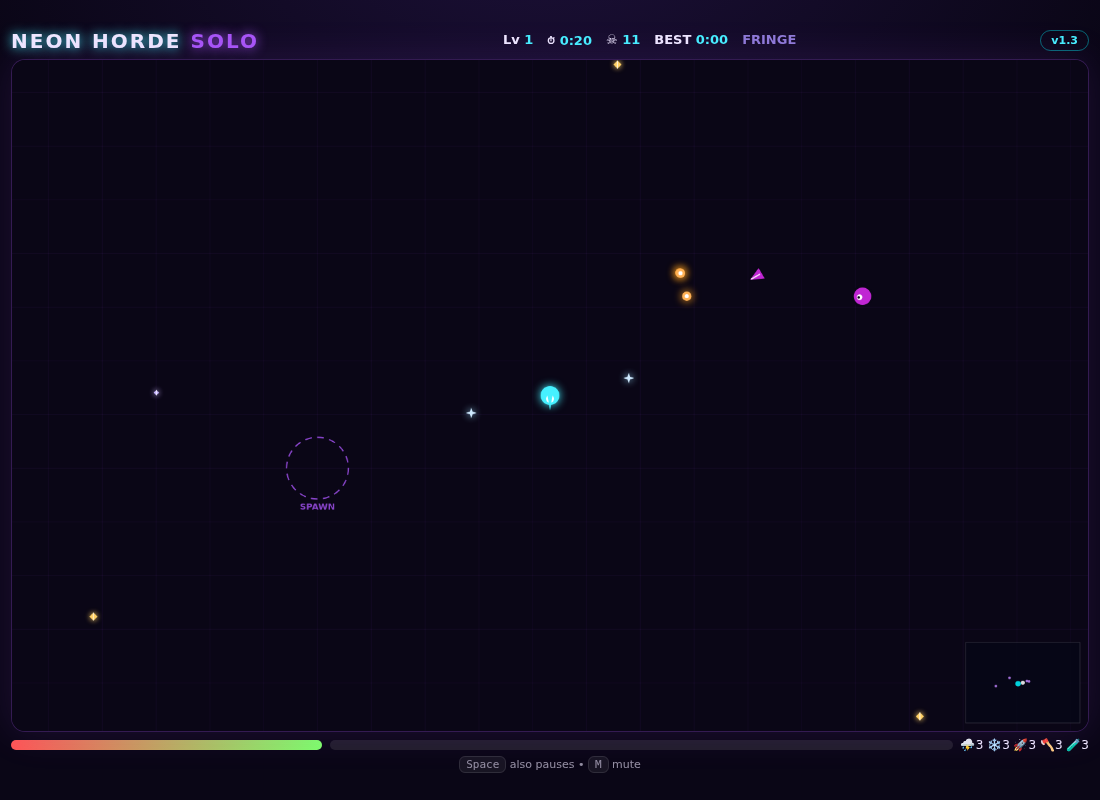
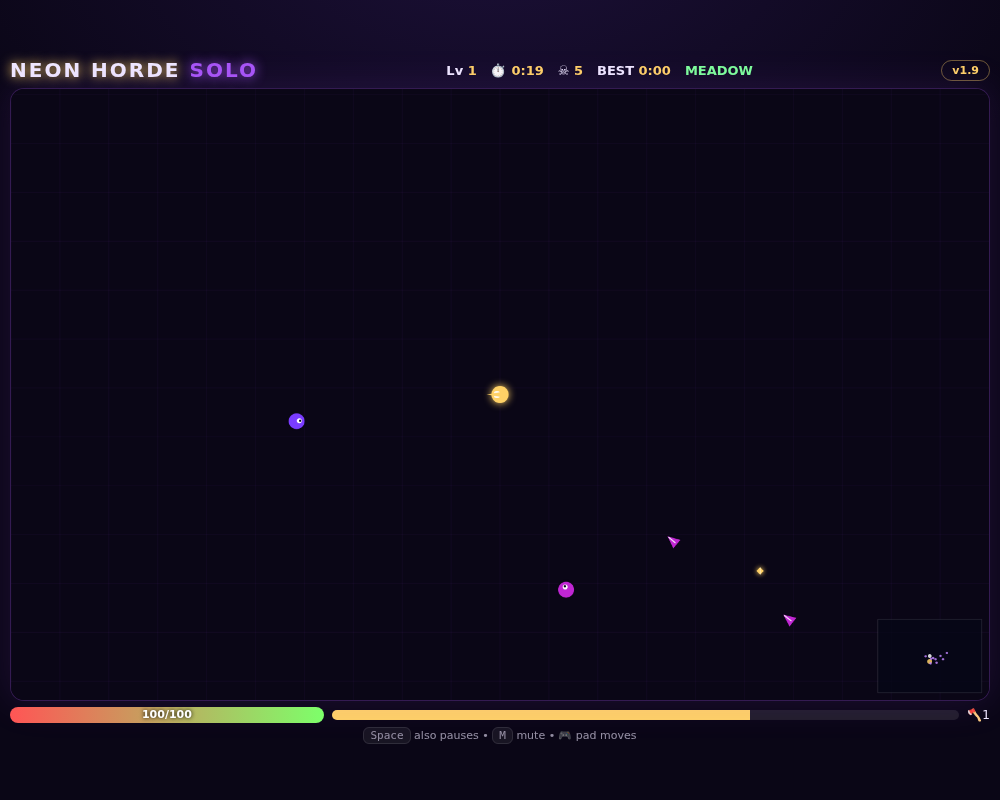
Horde lantern theme: gold hunters/HUD, fresh thumbs, solo PWA pack

diff --git a/local-browser-games/1player/neon-horde-solo/index.html b/local-browser-games/1player/neon-horde-solo/index.html
@@ -3,9 +3,12 @@
 <head>
 <meta charset="utf-8">
 <meta name="viewport" content="width=device-width,initial-scale=1,maximum-scale=1,user-scalable=no">
+<meta name="theme-color" content="#0a0616">
+<link rel="manifest" href="manifest.webmanifest">
+<link rel="icon" href="icon.svg" type="image/svg+xml">
 <title>Neon Horde Solo — Static Survivors</title>
 <style>
-:root{--c1:#46f0ff;--c2:#a855f7;--bg:#0a0616}
+:root{--c1:#ffd166;--c2:#a855f7;--bg:#0a0616}
 *{box-sizing:border-box;-webkit-tap-highlight-color:transparent;user-select:none}
 body{margin:0;background:radial-gradient(1000px 600px at 50% -10%,#1c1038 0%,var(--bg) 60%) fixed,var(--bg);color:#efe8ff;font-family:ui-sans-serif,system-ui,Segoe UI,Roboto,Arial;overflow:hidden}
 #wrap{height:100dvh;display:flex;flex-direction:column;align-items:center;justify-content:center;gap:6px;padding:8px}
@@ -14,7 +17,7 @@ body{margin:0;background:radial-gradient(1000px 600px at 50% -10%,#1c1038 0%,var
 .logo span{color:var(--c2);text-shadow:0 0 12px var(--c2)}
 #stats{font-weight:800;font-size:13px;display:flex;gap:14px}
 #stats b{color:var(--c1)}
-#verBadge{font-size:11px;font-weight:800;color:var(--c1);border:1px solid #00f6ff66;border-radius:99px;padding:3px 10px}
+#verBadge{font-size:11px;font-weight:800;color:var(--c1);border:1px solid #ffd16666;border-radius:99px;padding:3px 10px}
 #bossbar{width:min(1100px,98vw);height:14px;border-radius:99px;background:#ffffff14;border:1px solid #ffffff2a;overflow:hidden;display:none}
 #bossfill{height:100%;width:100%;background:linear-gradient(90deg,#ff2fd6,#ff5555)}
 #stage{position:relative;width:min(1100px,98vw);aspect-ratio:1600/1000;border-radius:14px;overflow:hidden;border:1px solid #a855f744;background:#0a0616;box-shadow:0 0 40px #a855f722}
@@ -23,12 +26,12 @@ canvas{width:100%;height:100%;display:block;touch-action:none}
 .card{width:min(440px,93%);background:#0b1026;border:1px solid #ffffff22;border-radius:16px;padding:20px;text-align:center}
 .card h1{margin:.2em 0;font-size:22px}
 .card p{font-size:13px;opacity:.85;line-height:1.6}
-button{cursor:pointer;border:0;border-radius:10px;padding:12px 16px;font-weight:800;font-size:15px;color:#04121a;background:linear-gradient(90deg,var(--c1),#7dffcb);box-shadow:0 0 18px #00f6ff88;width:100%;margin-top:8px}
+button{cursor:pointer;border:0;border-radius:10px;padding:12px 16px;font-weight:800;font-size:15px;color:#04121a;background:linear-gradient(90deg,var(--c1),#ff9f1c);box-shadow:0 0 18px #ffd16688;width:100%;margin-top:8px}
 button.ghost{background:#ffffff14;color:#fff;box-shadow:none;border:1px solid #ffffff2a}
 #draft{position:absolute;inset:0;display:none;align-items:center;justify-content:center;background:rgba(5,6,15,.6);padding:10px}
 #draftCards{display:flex;gap:10px;width:min(640px,94%)}
 @media (max-width:640px){#draftCards{flex-direction:column;max-height:86%;overflow:auto}.dcard{padding:12px 10px}.dcard .ic{font-size:26px}}
-.dcard{flex:1;background:#0d1430;border:2px solid #00f6ff66;border-radius:14px;padding:16px 10px;text-align:center;cursor:pointer}
+.dcard{flex:1;background:#0d1430;border:2px solid #ffd16666;border-radius:14px;padding:16px 10px;text-align:center;cursor:pointer}
 .dcard:hover{border-color:#fff;background:#14204a}
 .dcard .ic{font-size:34px}
 .dcard h3{margin:8px 0 4px;font-size:15px}
@@ -41,7 +44,7 @@ button.ghost{background:#ffffff14;color:#fff;box-shadow:none;border:1px solid #f
 #bossbar{width:min(1100px,98vw);height:14px;border-radius:99px;background:#ffffff14;border:1px solid #ffffff2a;overflow:hidden;display:none;position:relative}
 #bossnum{position:absolute;left:0;right:0;top:0;font-size:10px;font-weight:800;text-align:center;color:#fff;text-shadow:0 0 4px #000;pointer-events:none;line-height:14px}
 #xpbar{flex:2;height:10px;border-radius:99px;background:#ffffff18;overflow:hidden}
-#xpfill{height:100%;background:#00f6ff}
+#xpfill{height:100%;background:#ffd166}
 #wrow{font-size:12px;white-space:nowrap}
 #toast{position:absolute;top:10px;left:50%;transform:translateX(-50%);background:#000000aa;border:1px solid #ffffff33;padding:6px 12px;border-radius:99px;font-size:13px;display:none;z-index:5}
 #hint{font-size:11px;opacity:.6;text-align:center}
@@ -50,7 +53,7 @@ kbd{background:#ffffff1a;border:1px solid #ffffff2e;border-radius:6px;padding:1p
 </head>
 <body>
 <div id="wrap">
-  <div id="topbar"><div class="logo">NEON HORDE <span>SOLO</span></div><div id="stats"><div>Lv <b id="lvl">1</b></div><div>⏱ <b id="clock">0:00</b></div><div>☠ <b id="kills">0</b></div><div>BEST <b id="best">0:00</b></div><div id="biome">FRINGE</div></div><div id="verBadge">v1.8</div></div>
+  <div id="topbar"><div class="logo">NEON HORDE <span>SOLO</span></div><div id="stats"><div>Lv <b id="lvl">1</b></div><div>⏱ <b id="clock">0:00</b></div><div>☠ <b id="kills">0</b></div><div>BEST <b id="best">0:00</b></div><div id="biome">MEADOW</div></div><div id="verBadge">v1.9</div></div>
   <div id="bossbar"><div id="bossfill"></div><div id="bossnum"></div></div>
   <div id="stage">
     <canvas id="cv" width="1600" height="1000"></canvas>
@@ -66,7 +69,7 @@ kbd{background:#ffffff1a;border:1px solid #ffffff2e;border-radius:6px;padding:1p
     </div></div>
   </div>
   <div id="hud"><div id="hpbar"><div id="hpfill" style="width:100%"></div><div id="hpnum"></div></div><div id="xpbar"><div id="xpfill" style="width:0%"></div></div><div id="wrow"></div></div>
-  <div id="hint"><kbd>Space</kbd> also pauses • <kbd>M</kbd> mute</div>
+  <div id="hint"><kbd>Space</kbd> also pauses • <kbd>M</kbd> mute • 🎮 pad moves</div>
 </div>
 <script>
 'use strict';
@@ -328,6 +331,22 @@ window.addEventListener('keydown',e=>{
   if(k==='m')muted=!muted;
 });
 window.addEventListener('keyup',e=>{keys[e.key.toLowerCase()]=false;});
+if('serviceWorker' in navigator&&location.protocol.startsWith('http'))navigator.serviceWorker.register('sw.js').catch(()=>{});
+// 🎮 gamepad: left stick/dpad moves (merged into WASD+arrows), Start = pause
+let _gpS=false;
+function gpTick(){
+  let gp=null;try{const gs=navigator.getGamepads?navigator.getGamepads():[];for(const g of gs){if(g&&g.connected){gp=g;break;}}}catch(e){}
+  for(const k of ['w','a','s','d','arrowup','arrowdown','arrowleft','arrowright'])if(keys[k+'__gp']){keys[k]=false;keys[k+'__gp']=false;}
+  if(!gp)return;
+  const ax=gp.axes[0]||0,ay=gp.axes[1]||0,b=i=>!!(gp.buttons[i]&&gp.buttons[i].pressed);
+  const up=b(12)||ay<-0.28,dn=b(13)||ay>0.28,lf=b(14)||ax<-0.28,rt=b(15)||ax>0.28;
+  const set=k=>{keys[k]=true;keys[k+'__gp']=true;};
+  if(up){set('w');set('arrowup');}if(dn){set('s');set('arrowdown');}if(lf){set('a');set('arrowleft');}if(rt){set('d');set('arrowright');}
+  const st=b(9);
+  if(st&&!_gpS)window.dispatchEvent(new KeyboardEvent('keydown',{key:'p'}));
+  _gpS=st;
+}
+setInterval(gpTick,33);
 cv.addEventListener('touchstart',e=>{const r=cv.getBoundingClientRect(),t=e.touches[0];stick={ox:t.clientX,oy:t.clientY,x:0,y:0,id:t.identifier,cx:(t.clientX-r.left)/r.width*W,cy:(t.clientY-r.top)/r.height*H};e.preventDefault();},{passive:false});
 cv.addEventListener('touchmove',e=>{for(const t of e.changedTouches){if(stick&&t.identifier===stick.id){stick.x=Math.max(-1,Math.min(1,(t.clientX-stick.ox)/70));stick.y=Math.max(-1,Math.min(1,(t.clientY-stick.oy)/70));}}e.preventDefault();},{passive:false});
 cv.addEventListener('touchend',e=>{for(const t of e.changedTouches){if(stick&&t.identifier===stick.id)stick=null;}});
@@ -761,7 +780,7 @@ requestAnimationFrame(loop);
   document.getElementById('xpfill').style.width=(P.xp/P.xpn*100)+'%';
   document.getElementById('wrow').textContent=Object.entries(P.wpn).map(([k,v])=>(ICONS[k]||'•')+v).join(' ')+' '+P.evo.map(a=>ICONS[a]||'•').join('')+' '+P.arti.map(a=>ICONS[a]||'•').join('');
   const bdt=Math.hypot(P.x,P.y),bt=bdt<900?0:bdt<1800?1:2;
-  const bel=document.getElementById('biome');bel.textContent=['FRINGE','GLOAM','ABYSS'][bt];bel.style.color=['#8f7bd8','#e04dff','#5b21b6'][bt];
+  const bel=document.getElementById('biome');bel.textContent=['MEADOW','EMBER','VOID'][bt];bel.style.color=['#7dff9a','#ff9f1c','#c026d3'][bt];
   const bb=document.getElementById('bossbar');
   if(boss){bb.style.display='block';document.getElementById('bossfill').style.width=(Math.max(0,boss.hp/boss.maxhp)*100)+'%';document.getElementById('bossnum').textContent=Math.ceil(Math.max(0,boss.hp))+' / '+Math.round(boss.maxhp);}
   else bb.style.display='none';
@@ -839,17 +858,17 @@ function draw(now,dt){
     const age=(now-f.t)/450;
     if(age>1)continue;
     if(!f.sounded){f.sounded=true;
-      if(f.kind==='nova'||f.kind==='thornova'){burst(f.pts[0][0],f.pts[0][1],f.kind==='thornova'?'#ff9f1c':'#7df9ff',26);beep(70,.3,'sawtooth',.15);}
+      if(f.kind==='nova'||f.kind==='thornova'){burst(f.pts[0][0],f.pts[0][1],f.kind==='thornova'?'#ff9f1c':'#ffe9a8',26);beep(70,.3,'sawtooth',.15);}
       if(f.kind==='chain')beep(1400,.06,'square',.07);
       if(f.kind==='pop')beep(500,.05,'square',.06);
     }
     ctx.save();ctx.globalAlpha=1-age;
     if(f.kind==='chain'){
-      ctx.strokeStyle='#bfe9ff';ctx.lineWidth=5;ctx.shadowColor='#7dc4ff';ctx.shadowBlur=14;
+      ctx.strokeStyle='#ffe9a8';ctx.lineWidth=5;ctx.shadowColor='#ffd166';ctx.shadowBlur=14;
       ctx.beginPath();f.pts.forEach((p,i)=>{const jx=i?Math.sin(now/37+p[0])*7:0,jy=i?Math.cos(now/43+p[1])*7:0;i?ctx.lineTo(X(p[0])+jx,Y(p[1])+jy):ctx.moveTo(X(p[0]),Y(p[1]));});ctx.stroke();
       ctx.strokeStyle='#fff';ctx.lineWidth=2;ctx.stroke();
     }else{
-      const c=f.kind==='thornova'?'#ff9f1c':f.kind==='pop'?'#ffb35c':'#7df9ff';
+      const c=f.kind==='thornova'?'#ff9f1c':f.kind==='pop'?'#ffb35c':'#ffe9a8';
       const rMax=f.kind==='pop'?40:(f.pts[0][2]||160);
       ctx.strokeStyle=c;ctx.shadowColor=c;ctx.shadowBlur=16;ctx.lineWidth=5;
       ctx.beginPath();ctx.arc(X(f.pts[0][0]),Y(f.pts[0][1]),6+(rMax-6)*age,0,7);ctx.stroke();
@@ -859,7 +878,7 @@ function draw(now,dt){
     ctx.restore();
   }
   const px=X(P.x),py=Y(P.y),bl=P.wpn.w_blades||0;
-  sprHunter(px,py,faceAng,'#46f0ff',1);
+  sprHunter(px,py,faceAng,'#ffd166',1);
   if(bl){
     const n=bl+1,rr=95+10*bl,aa=now/1000*(2.6+0.3*bl);
     for(let k=0;k<n;k++){const a=aa+k*2*Math.PI/n;sprBlade(px+Math.cos(a)*rr,py+Math.sin(a)*rr,a+Math.PI/2);}
@@ -892,7 +911,7 @@ function draw(now,dt){
     const dx=Math.max(-R,Math.min(R,wx-cx)),dy=Math.max(-R,Math.min(R,wy-cy));
     ctx.fillStyle=c;ctx.beginPath();ctx.arc(mx+MW/2+dx/R*(MW/2),my+MH/2+dy/R*(MH/2),r,0,7);ctx.fill();
   };
-  dot(0,0,'#00f6ff',4);
+  dot(0,0,'#ffd166',4);
   for(const e of enemies){if(Math.hypot(e.x-cx,e.y-cy)<R)dot(e.x,e.y,e.kind==='boss'?'#ff2fd6':'#c084fc',e.kind==='boss'?5:2);}
   if(boss)dot(boss.x,boss.y,'#ff2fd6',5);
   ctx.fillStyle='#fff';ctx.beginPath();ctx.arc(mx+MW/2,my+MH/2,3,0,7);ctx.fill();

diff --git a/local-browser-games/2players/neon-horde/public/index.html b/local-browser-games/2players/neon-horde/public/index.html
@@ -5,7 +5,7 @@
 <meta name="viewport" content="width=device-width,initial-scale=1,maximum-scale=1,user-scalable=no">
 <title>Neon Horde — LAN Co-op Survivors</title>
 <style>
-:root{--c1:#46f0ff;--c2:#a855f7;--bg:#0a0616}
+:root{--c1:#ffd166;--c2:#a855f7;--bg:#0a0616}
 *{box-sizing:border-box;-webkit-tap-highlight-color:transparent;user-select:none}
 body{margin:0;background:radial-gradient(1000px 600px at 50% -10%,#1c1038 0%,var(--bg) 60%) fixed,var(--bg);color:#efe8ff;font-family:ui-sans-serif,system-ui,Segoe UI,Roboto,Arial;overflow:hidden}
 #wrap{height:100dvh;display:flex;flex-direction:column;align-items:center;justify-content:center;gap:6px;padding:8px}
@@ -14,7 +14,7 @@ body{margin:0;background:radial-gradient(1000px 600px at 50% -10%,#1c1038 0%,var
 .logo span{color:var(--c2);text-shadow:0 0 12px var(--c2)}
 #stats{font-weight:800;font-size:13px;display:flex;gap:14px}
 #stats b{color:var(--c1)}
-#verBadge{font-size:11px;font-weight:800;color:var(--c1);border:1px solid #00f6ff66;border-radius:99px;padding:3px 10px}
+#verBadge{font-size:11px;font-weight:800;color:var(--c1);border:1px solid #ffd16666;border-radius:99px;padding:3px 10px}
 #names{font-size:12px;opacity:.8}
 #bossbar{width:min(1100px,98vw);height:14px;border-radius:99px;background:#ffffff14;border:1px solid #ffffff2a;overflow:hidden;display:none}
 #bossfill{height:100%;width:100%;background:linear-gradient(90deg,#ff2fd6,#ff5555)}
@@ -28,13 +28,13 @@ canvas{width:100%;height:100%;display:block;touch-action:none}
 .slot{padding:8px;border-radius:10px;background:#ffffff0d;border:1px dashed #ffffff33;font-size:13px}
 .slot.on{border-style:solid;border-color:var(--c1)}
 input{width:100%;padding:12px;border-radius:10px;border:1px solid #ffffff33;background:#050816;color:#fff;font-size:16px;outline:none;margin:8px 0}
-button{cursor:pointer;border:0;border-radius:10px;padding:12px 16px;font-weight:800;font-size:15px;color:#04121a;background:linear-gradient(90deg,var(--c1),#7dffcb);box-shadow:0 0 18px #00f6ff88;width:100%;margin-top:8px}
+button{cursor:pointer;border:0;border-radius:10px;padding:12px 16px;font-weight:800;font-size:15px;color:#04121a;background:linear-gradient(90deg,var(--c1),#ff9f1c);box-shadow:0 0 18px #ffd16688;width:100%;margin-top:8px}
 button.ghost{background:#ffffff14;color:#fff;box-shadow:none;border:1px solid #ffffff2a}
 button:disabled{opacity:.4}
 #draft{position:absolute;inset:0;display:none;align-items:center;justify-content:center;background:rgba(5,6,15,.55);padding:10px}
 #draftCards{display:flex;gap:10px;width:min(640px,94%)}
 @media (max-width:640px){#draftCards{flex-direction:column;max-height:86%;overflow:auto}.dcard{padding:12px 10px}.dcard .ic{font-size:26px}}
-.dcard{flex:1;background:#0d1430;border:2px solid #00f6ff66;border-radius:14px;padding:16px 10px;text-align:center;cursor:pointer}
+.dcard{flex:1;background:#0d1430;border:2px solid #ffd16666;border-radius:14px;padding:16px 10px;text-align:center;cursor:pointer}
 .dcard:hover{border-color:#fff;background:#14204a}
 .dcard .ic{font-size:34px}
 .dcard h3{margin:8px 0 4px;font-size:15px}
@@ -50,7 +50,7 @@ button:disabled{opacity:.4}
 #bossbar{position:relative}
 #bossnum{position:absolute;left:0;right:0;top:0;font-size:10px;font-weight:800;text-align:center;color:#fff;text-shadow:0 0 4px #000;pointer-events:none;line-height:14px}
 .hpfill{height:100%;background:linear-gradient(90deg,#ff5555,#7dff6a)}
-.xpfill{height:100%;background:#00f6ff}
+.xpfill{height:100%;background:#ffd166}
 .wrow{margin-top:3px;white-space:nowrap;overflow:hidden;text-overflow:ellipsis}
 #hint{font-size:11px;opacity:.6;text-align:center}
 kbd{background:#ffffff1a;border:1px solid #ffffff2e;border-radius:6px;padding:1px 6px;font-size:11px}
@@ -190,7 +190,7 @@ let you=0,joined=false,state=null,lastPhase='',lastCd=0,lastLvlId=0,lastBossId=0
 const dmgTxts=[];let hurtFx={t:0,ang:0},shakeT=0;
 let keys={},parts=[],stick=null,lastSent='',lastMoveSend=0,lastDraftIds='';
 const fxSeen={};
-const PCOL=['#46f0ff','#ffd166','#9dff9d','#ff9db0'];
+const PCOL=['#ffd166','#ff9f1c','#e07b39','#fff3d0'];
 const TIER_COL=['#7a3cff','#c026d3','#e9d5ff'];
 const BIOME_NAMES=['MEADOW','EMBER','VOID'];
 const BIOME_COL=['#7dff9a','#ff9f1c','#c026d3'];
@@ -593,7 +593,7 @@ function draw(now,dt){
   state.fx.forEach(f=>{
     const isNew=fxSeen[fxKey(f)]===undefined;
     if(isNew){fxSeen[fxKey(f)]=now;
-      if(f.kind==='nova'||f.kind==='thornova'){burst(f.pts[0][0],f.pts[0][1],f.kind==='thornova'?'#ff9f1c':'#7df9ff',26);beep(70,.3,'sawtooth',.15);}
+      if(f.kind==='nova'||f.kind==='thornova'){burst(f.pts[0][0],f.pts[0][1],f.kind==='thornova'?'#ff9f1c':'#ffe9a8',26);beep(70,.3,'sawtooth',.15);}
       if(f.kind==='chain')beep(1400,.06,'square',.07);
       if(f.kind==='pop')beep(500,.05,'square',.06);
     }
@@ -601,11 +601,11 @@ function draw(now,dt){
     if(age>1)return;
     ctx.save();ctx.globalAlpha=1-age;
     if(f.kind==='chain'){
-      ctx.strokeStyle='#bfe9ff';ctx.lineWidth=5;ctx.shadowColor='#7dc4ff';ctx.shadowBlur=14;
+      ctx.strokeStyle='#ffe9a8';ctx.lineWidth=5;ctx.shadowColor='#ffd166';ctx.shadowBlur=14;
       ctx.beginPath();f.pts.forEach((p,i)=>{const jx=i?Math.sin(now/37+p[0])*7:0,jy=i?Math.cos(now/43+p[1])*7:0;i?ctx.lineTo(X(p[0])+jx,Y(p[1])+jy):ctx.moveTo(X(p[0]),Y(p[1]));});ctx.stroke();
       ctx.strokeStyle='#fff';ctx.lineWidth=2;ctx.stroke();
     }else{ // nova / thornova rings use their TRUE radius; pop is fixed
-      const c=f.kind==='thornova'?'#ff9f1c':f.kind==='pop'?'#ffb35c':'#7df9ff';
+      const c=f.kind==='thornova'?'#ff9f1c':f.kind==='pop'?'#ffb35c':'#ffe9a8';
       const rMax=f.kind==='pop'?40:(f.pts[0][2]||160);
       ctx.strokeStyle=c;ctx.shadowColor=c;ctx.shadowBlur=16;ctx.lineWidth=5;
       ctx.beginPath();ctx.arc(X(f.pts[0][0]),Y(f.pts[0][1]),6+(rMax-6)*age,0,7);ctx.stroke();

diff --git a/local-browser-games/1player/neon-horde-solo/sw.js b/local-browser-games/1player/neon-horde-solo/sw.js
@@ -1,0 +1,5 @@
+const C='hordesolo-v19'; // bump with every game version so updates reach installed players
+const A=['index.html','manifest.webmanifest','icon.svg'];
+self.addEventListener('install',e=>{e.waitUntil(caches.open(C).then(c=>c.addAll(A)).then(()=>self.skipWaiting()));});
+self.addEventListener('activate',e=>{e.waitUntil(caches.keys().then(ks=>Promise.all(ks.filter(k=>k!==C).map(k=>caches.delete(k)))).then(()=>self.clients.claim()));});
+self.addEventListener('fetch',e=>{if(e.request.method!=='GET')return;e.respondWith(caches.match(e.request).then(r=>r||fetch(e.request).then(res=>{const cp=res.clone();caches.open(C).then(c=>c.put(e.request,cp)).catch(()=>{});return res;}).catch(()=>caches.match('index.html'))));});
